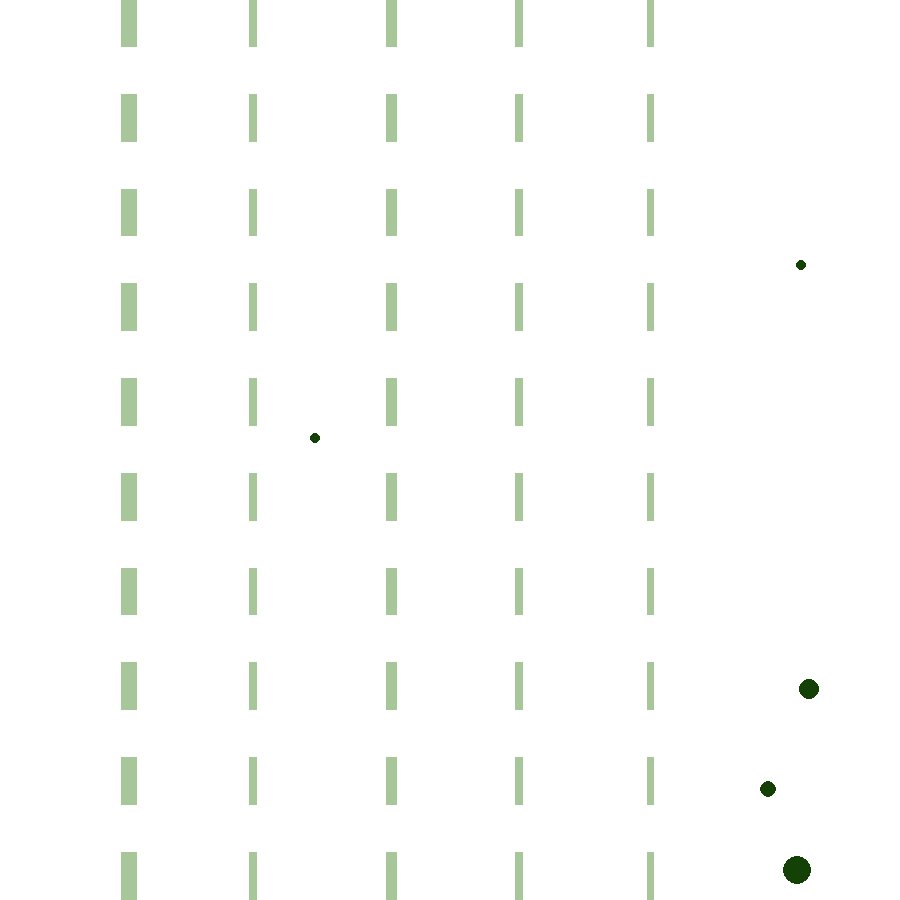
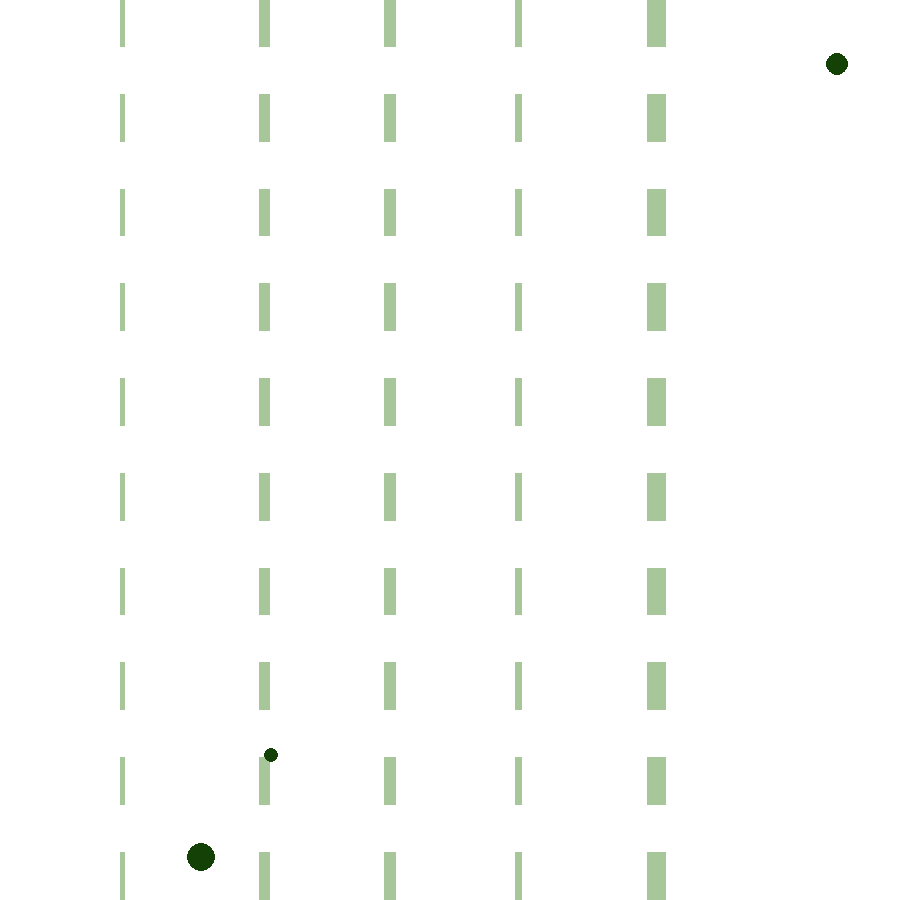
robot travels to weeds

diff --git a/environment.py b/environment.py
@@ -314,45 +314,34 @@ class Runner:
         counter = 0
 
         while running:
-                        
             running = self.vis.update_display(counter)
             
-            #if counter == 0:
-            #    #self.planner.get_path((290, 290), (100, 90))
-            #    self.planner.get_path((290, 290), (self.world.weed_xs[0]/3, self.world.weed_ys[0]/3))
-            #    print(len(self.planner.trajectory))
-            #weed_xs2 = []
-            #weed_ys2 = []
-            #weed_xs2 = self.world.weed_xs
-            #weed_ys2 = self.world.weed_ys
-            #for i in self.world.weed_xs:
             if counter == 0:
-                #print(i)
-                    #self.planner.get_path((290, 290), (100, 90))
-                self.planner.get_path((290, 290), (self.world.weed_xs[0]/3, self.world.weed_ys[0]/3))
+                #self.planner.get_path((290, 290), (100, 90))
+                for j in range(0,len(self.world.weed_xs)):
+                    if j == 0:
+                        self.planner.get_path((290, 290), (self.world.weed_xs[j]/3, self.world.weed_ys[j]/3))
+                        trajectoryTotal = self.planner.trajectory
+                    else:
+                        self.planner.get_path((self.world.weed_xs[j-1]/3, self.world.weed_ys[j-1]/3), (self.world.weed_xs[j]/3, self.world.weed_ys[j]/3))
+                        trajectoryTotal = np.vstack([trajectoryTotal, self.planner.trajectory])
+                #print(trajectoryTotal)
                 #print(len(self.planner.trajectory))
             
-            if counter < len(self.planner.trajectory)-1:
-                x = self.planner.trajectory[counter][0]
-                x_next = self.planner.trajectory[counter+1][0]
-                y = self.planner.trajectory[counter][1]
-                y_next = self.planner.trajectory[counter+1][1]
-
-                    #x = self.planner.trajectory[counter][1]
-                    #x_next = self.planner.trajectory[counter+1][1]
-                    #y = self.planner.trajectory[counter][0]
-                    #y_next = self.planner.trajectory[counter+1][0]
+            if counter < len(trajectoryTotal)-1:
+                x = trajectoryTotal[counter][0]
+                x_next = trajectoryTotal[counter+1][0]
+                y = trajectoryTotal[counter][1]
+                y_next = trajectoryTotal[counter+1][1]
 
                 angle = atan2(y_next-y, x_next-x)
                 self.robot.turn_to(angle*180/pi - 90)
                 self.robot.set_position(x,HEIGHT-y)
                 self.robot.visited.append([x,y])
-                    # print(len(self.robot.visited))
+                # print(len(self.robot.visited))
 
             counter += 1
             time.sleep(0.01)
-            #weed_xs2.pop(0)
-            #weed_ys2.pop(0)
         
 
 def main():
@@ -363,7 +352,7 @@ def main():
     #cropsPerRow = 10
     numCropRows = 5
     cropsPerRow = 10
-    numWeeds = 5
+    numWeeds = 3
 
     robot = Robot(500,500)
     world = World(width, height, numTrees, numCropRows, cropsPerRow, numWeeds)
